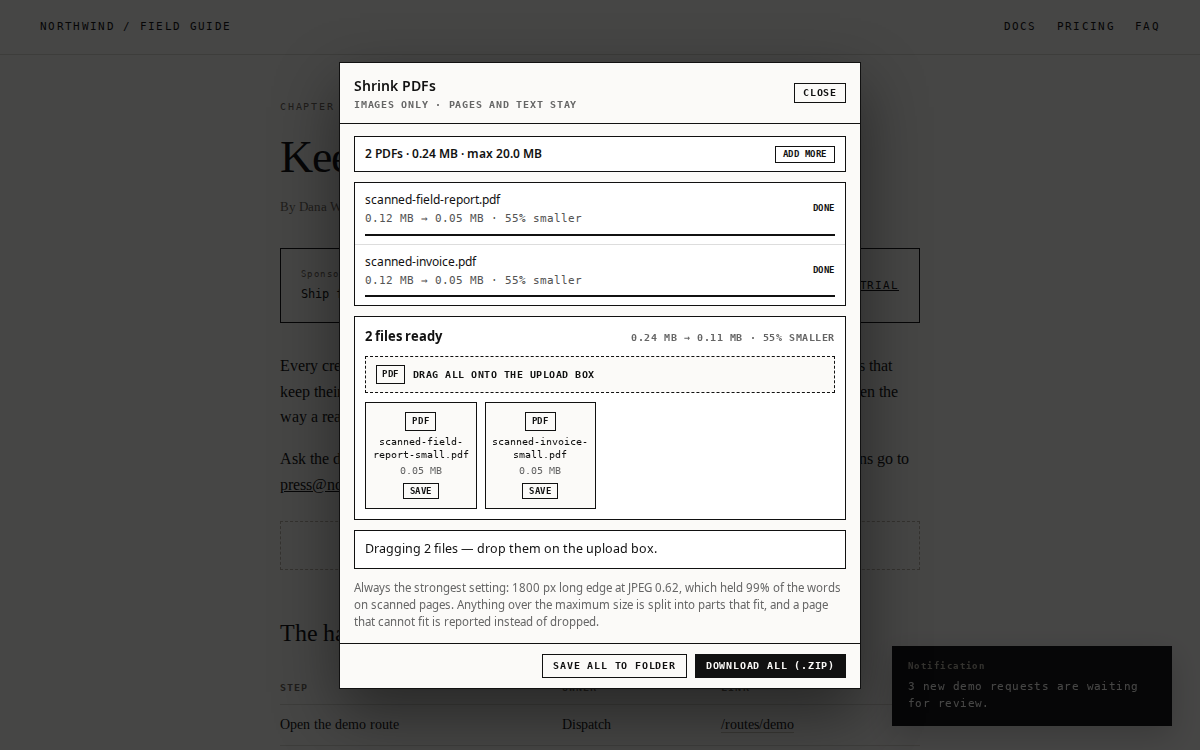
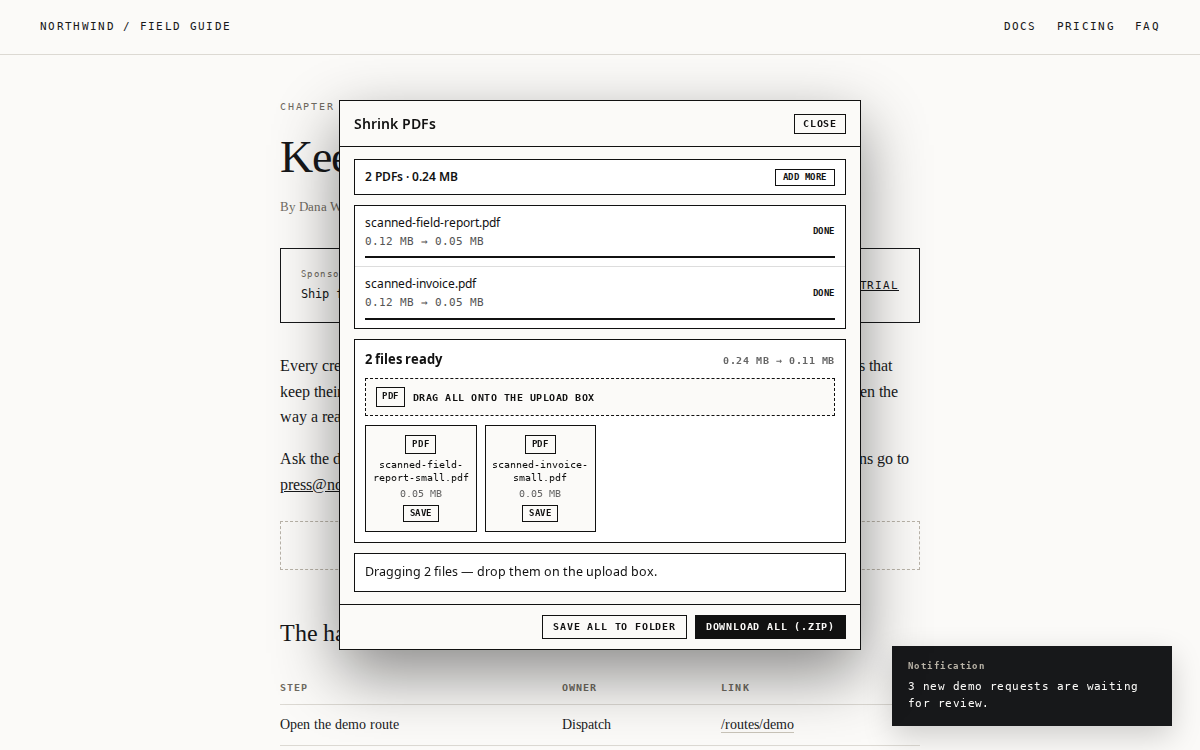
Let the page take pointer events while the Shrink PDF panel is open
A full-screen scrim sat over the site and swallowed every drag aimed at its own
upload box, which defeated the point of draggable results. The panel now floats
without a backdrop and only its own surface takes clicks. The explanatory copy
goes with it: drop, watch, take the files.

🤖 Generated with Codebuff

diff --git a/bookmarklets/files/pdf-shrink.js b/bookmarklets/files/pdf-shrink.js
@@ -687,18 +687,19 @@
   // files. There is one compression setting, because the job is "as small as
   // this can get without making the words unreadable", not a slider to tune.
   const CSS = `
-    .wrap { position: fixed; inset: 0; z-index: 2147483647; background: rgba(0,0,0,.72);
+    /* No backdrop. The panel floats over the page and lets every pointer event
+       outside it reach the page underneath, so a file dragged from the results
+       onto the site's own upload box still lands there while this is open. */
+    .wrap { position: fixed; inset: 0; z-index: 2147483647; pointer-events: none;
       font: 14px/1.5 system-ui, -apple-system, sans-serif; color: #111; }
-    .panel { position: fixed; left: 50%; top: 50%; transform: translate(-50%, -50%); display: flex;
-      flex-direction: column; width: min(520px, 94vw); max-height: 90vh; background: #fbfaf8;
+    .panel { position: fixed; left: 50%; top: 50%; transform: translate(-50%, -50%); pointer-events: auto;
+      display: flex; flex-direction: column; width: min(520px, 94vw); max-height: 90vh; background: #fbfaf8;
       border: 1px solid #111; box-shadow: 0 24px 60px rgba(0,0,0,.45); }
     .panel[data-dragged] { transform: none; }
     .head { display: flex; align-items: center; justify-content: space-between; gap: 12px; padding: 12px 14px;
       border-bottom: 1px solid #111; cursor: grab; touch-action: none; user-select: none; }
     .panel.dragging .head { cursor: grabbing; }
     .title { margin: 0; font-size: 14px; font-weight: 600; }
-    .meta { margin: 2px 0 0; font: 600 9.5px/1.4 ui-monospace, monospace; letter-spacing: .08em;
-      text-transform: uppercase; color: #666; }
     .close { padding: 4px 8px; border: 1px solid #111; background: transparent; color: #111;
       font: 600 10px/1 ui-monospace, monospace; letter-spacing: .08em; text-transform: uppercase; cursor: pointer; }
     .body { display: flex; flex-direction: column; gap: 10px; padding: 12px 14px; overflow: auto; }
@@ -760,7 +761,6 @@
     .status { margin: 0; padding: 9px 10px; border: 1px solid #111; background: #fff; font-size: 12.5px;
       overflow-wrap: anywhere; }
     .status.error { border-style: dashed; }
-    .hint { margin: 0; font-size: 11.5px; color: #666; }
     .foot { display: flex; flex-wrap: wrap; gap: 8px; justify-content: flex-end; padding: 10px 14px;
       border-top: 1px solid #111; }
     .foot button { padding: 6px 10px; border: 1px solid #111; background: transparent; color: #111;
@@ -878,7 +878,7 @@
     const panel = make("section", { class: "panel", role: "dialog", "aria-modal": "true", "aria-label": "Shrink PDFs" });
     const head = make("header", { class: "head" });
     const titles = make("div");
-    titles.append(make("h2", { class: "title" }, "Shrink PDFs"), make("p", { class: "meta" }, "Images only · pages and text stay"));
+    titles.append(make("h2", { class: "title" }, "Shrink PDFs"));
     const closeButton = make("button", { class: "close", type: "button" }, "Close");
     head.append(titles, closeButton);
 
@@ -887,7 +887,7 @@
     const intake = make("div", { class: "intake" });
     const drop = make("label", { class: "drop" });
     const dropTitle = make("b", {}, "Drop PDFs here");
-    const dropText = make("span", {}, "pick several at once · compression starts on its own");
+    const dropText = make("span", {}, "pick several at once");
     const input = make("input", { type: "file", accept: "application/pdf,.pdf", multiple: "" });
     drop.append(dropTitle, dropText, input);
     const maxRow = make("label", { class: "row" });
@@ -918,10 +918,9 @@
     const tiles = make("div", { class: "tiles", "data-tiles": "" });
     results.append(resultsHead, dragAll, tiles);
 
-    const status = make("p", { class: "status" }, "Drop PDFs and they start compressing. The finished files appear here to drag or save.");
-    const hint = make("p", { class: "hint" }, "Always the strongest setting: 1800 px long edge at JPEG 0.62, which held 99% of the words on scanned pages. Anything over the maximum size is split into parts that fit, and a page that cannot fit is reported instead of dropped.");
+    const status = make("p", { class: "status" }, "Drop PDFs to compress.");
 
-    body.append(intake, bar, jobs, results, status, hint);
+    body.append(intake, bar, jobs, results, status);
 
     const foot = make("footer", { class: "foot" });
     const folder = make("button", { type: "button", "data-folder": "" }, "Save all to folder");
@@ -948,9 +947,6 @@
     };
     window.addEventListener("keydown", onKey, true);
     closeButton.addEventListener("click", close);
-    wrap.addEventListener("click", (event) => {
-      if (event.target === wrap) close();
-    });
 
     maxRange.addEventListener("input", () => { maxInput.value = maxRange.value; });
     maxInput.addEventListener("input", () => {
@@ -1062,9 +1058,7 @@
 
     function showBar() {
       const total = items.reduce((sum, item) => sum + item.file.size, 0);
-      const ceiling = Number.parseFloat(maxInput.value);
-      const ceilingNote = Number.isFinite(ceiling) && ceiling > 0 ? ` · max ${mb(ceiling * 1024 * 1024)}` : "";
-      barText.textContent = `${items.length} PDF${items.length === 1 ? "" : "s"} · ${mb(total)}${ceilingNote}`;
+      barText.textContent = `${items.length} PDF${items.length === 1 ? "" : "s"} · ${mb(total)}`;
     }
 
     function showSummary() {
@@ -1082,9 +1076,8 @@
       }
       const before = done.reduce((sum, item) => sum + item.file.size, 0);
       const after = files.reduce((sum, file) => sum + file.bytes.length, 0);
-      const saved = before ? Math.round(((before - after) / before) * 100) : 0;
       resultsTitle.textContent = files.length === 1 ? "1 file ready" : `${files.length} files ready`;
-      const notes = [`${mb(before)} → ${mb(after)}`, saved > 0 ? `${saved}% smaller` : "no saving"];
+      const notes = [`${mb(before)} → ${mb(after)}`];
       if (none.length) notes.push(`${none.length} with no gain`);
       if (failed.length) notes.push(`${failed.length} failed`);
       resultsNote.textContent = notes.join(" · ");
@@ -1120,7 +1113,7 @@
       item.status = "working";
       item.row.classList.add("working");
       item.mark.textContent = "Working";
-      progress(item, 12, `${mb(item.file.size)} · reading`);
+      progress(item, 12, mb(item.file.size));
       setStatus(`Compressing ${item.file.name}…`);
       try {
         const bytes = new Uint8Array(await item.file.arrayBuffer());
@@ -1137,7 +1130,7 @@
           item.status = "none";
           item.row.classList.add("none");
           item.mark.textContent = "No gain";
-          progress(item, 100, `${mb(outcome.before)} · already tight, left as it was`);
+          progress(item, 100, "no change");
           return;
         }
 
@@ -1148,7 +1141,7 @@
           if (parts.some((part) => part.tooBig)) progress(item, 100, `${parts.length} parts · ${mb(total)} · a page will not fit under ${mb(target)}`);
         } else {
           item.result = [{ name: `${base}-small.pdf`, bytes: parts ? parts[0].bytes : outcome.bytes, type: "application/pdf" }];
-          progress(item, 100, `${mb(outcome.before)} → ${mb(total)} · ${Math.round((saved / outcome.before) * 100)}% smaller`);
+          progress(item, 100, `${mb(outcome.before)} → ${mb(total)}`);
           if (parts && parts[0] && parts[0].tooBig) progress(item, 100, `${mb(outcome.before)} → ${mb(total)} · still over ${mb(target)}`);
         }
         item.status = "done";
@@ -1181,14 +1174,8 @@
         const none = items.filter((item) => item.status === "none").length;
         const failed = items.filter((item) => item.status === "error").length;
         const left = items.length - done - none - failed;
-        if (left > 0) {
-          setStatus(`${done} ready, ${left} still to go. Add more or press Save.`, false);
-        } else {
-          setStatus(
-            `${done + none} file${done + none === 1 ? "" : "s"} finished${none ? `, ${none} already tight` : ""}${failed ? `, ${failed} failed` : ""}. Drag them onto the upload box, or save them.`,
-            done === 0,
-          );
-        }
+        if (left > 0) setStatus(`${left} still to compress.`);
+        else setStatus(`${done + none} file${done + none === 1 ? "" : "s"} ready.${failed ? ` ${failed} failed.` : ""}`, done === 0);
       }
     }
 
@@ -1207,7 +1194,7 @@
       bar.hidden = false;
       showBar();
       const waiting = items.filter((item) => item.status === "queued").length;
-      setStatus(`Compressing ${waiting} PDF${waiting === 1 ? "" : "s"}${skipped ? `, ${skipped} non-PDF ${skipped === 1 ? "file" : "files"} skipped` : ""}…`);
+      setStatus(`Compressing ${waiting} PDF${waiting === 1 ? "" : "s"}…`);
       void run();
     }
 
@@ -1228,7 +1215,7 @@
 
     addMore.addEventListener("click", () => {
       intake.hidden = false;
-      setStatus("Add more PDFs; they join the queue and start on their own.");
+      setStatus("Add more PDFs.");
     });
 
     folder.addEventListener("click", () => void saveAllToFolder());
